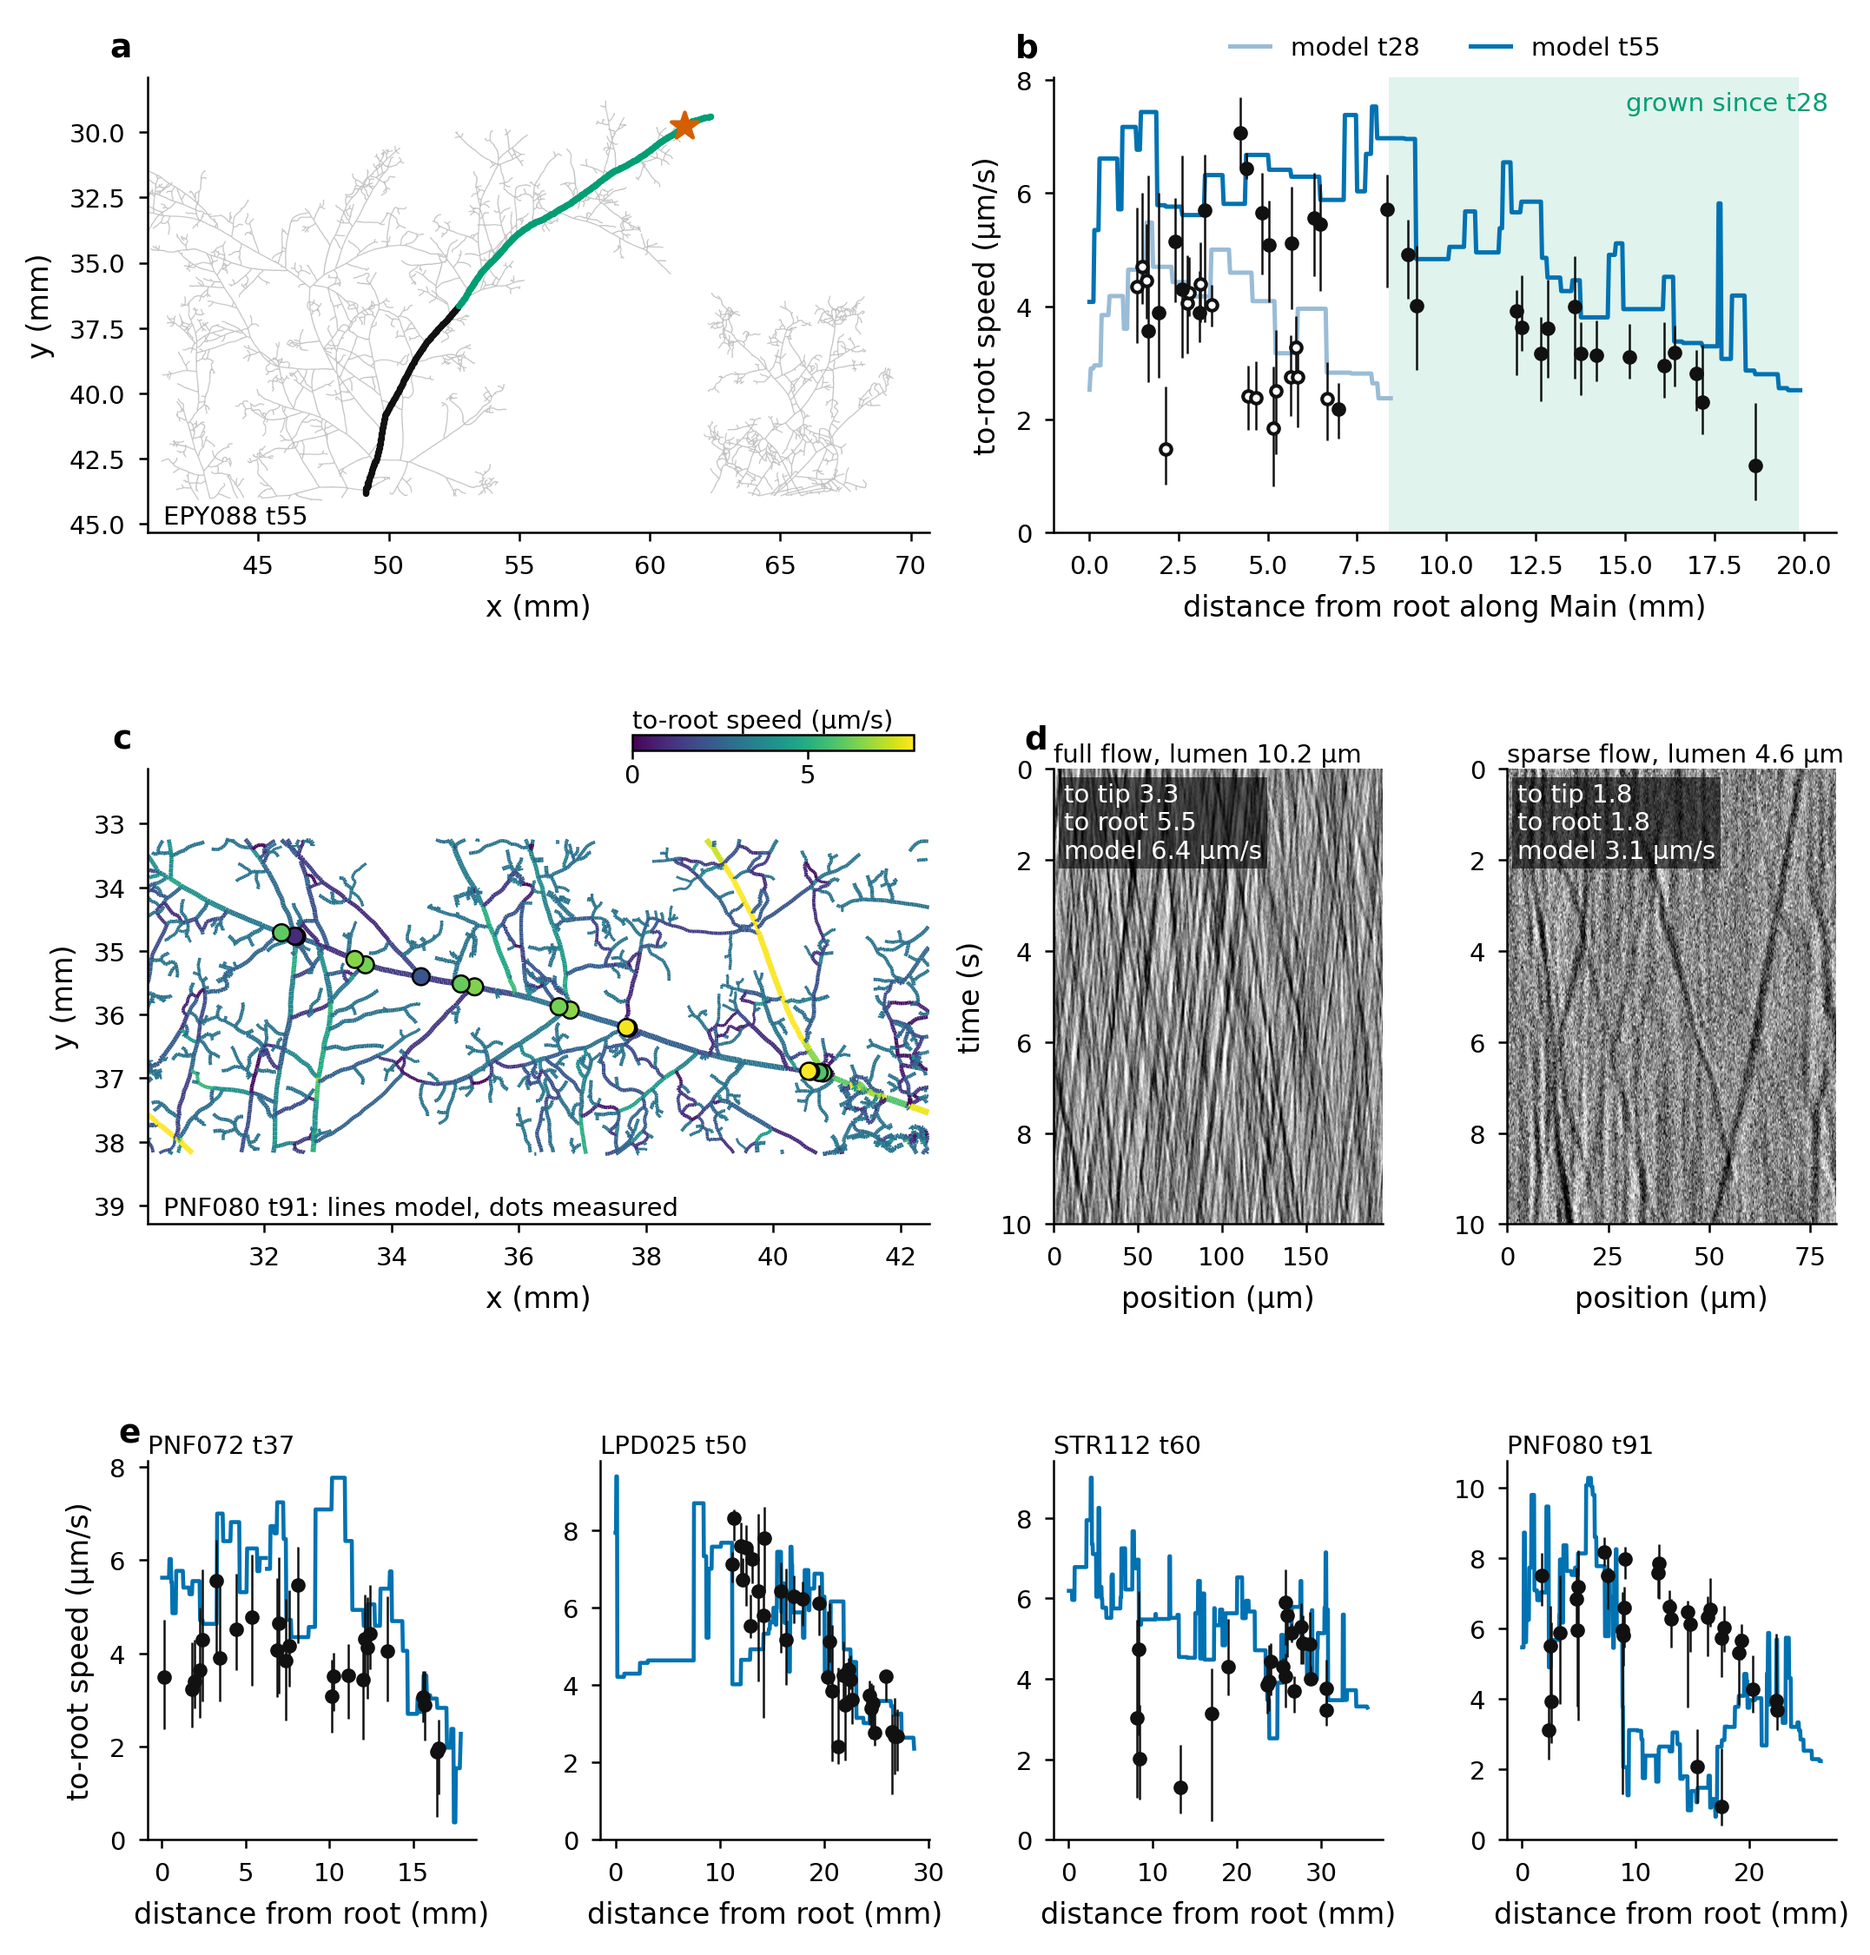
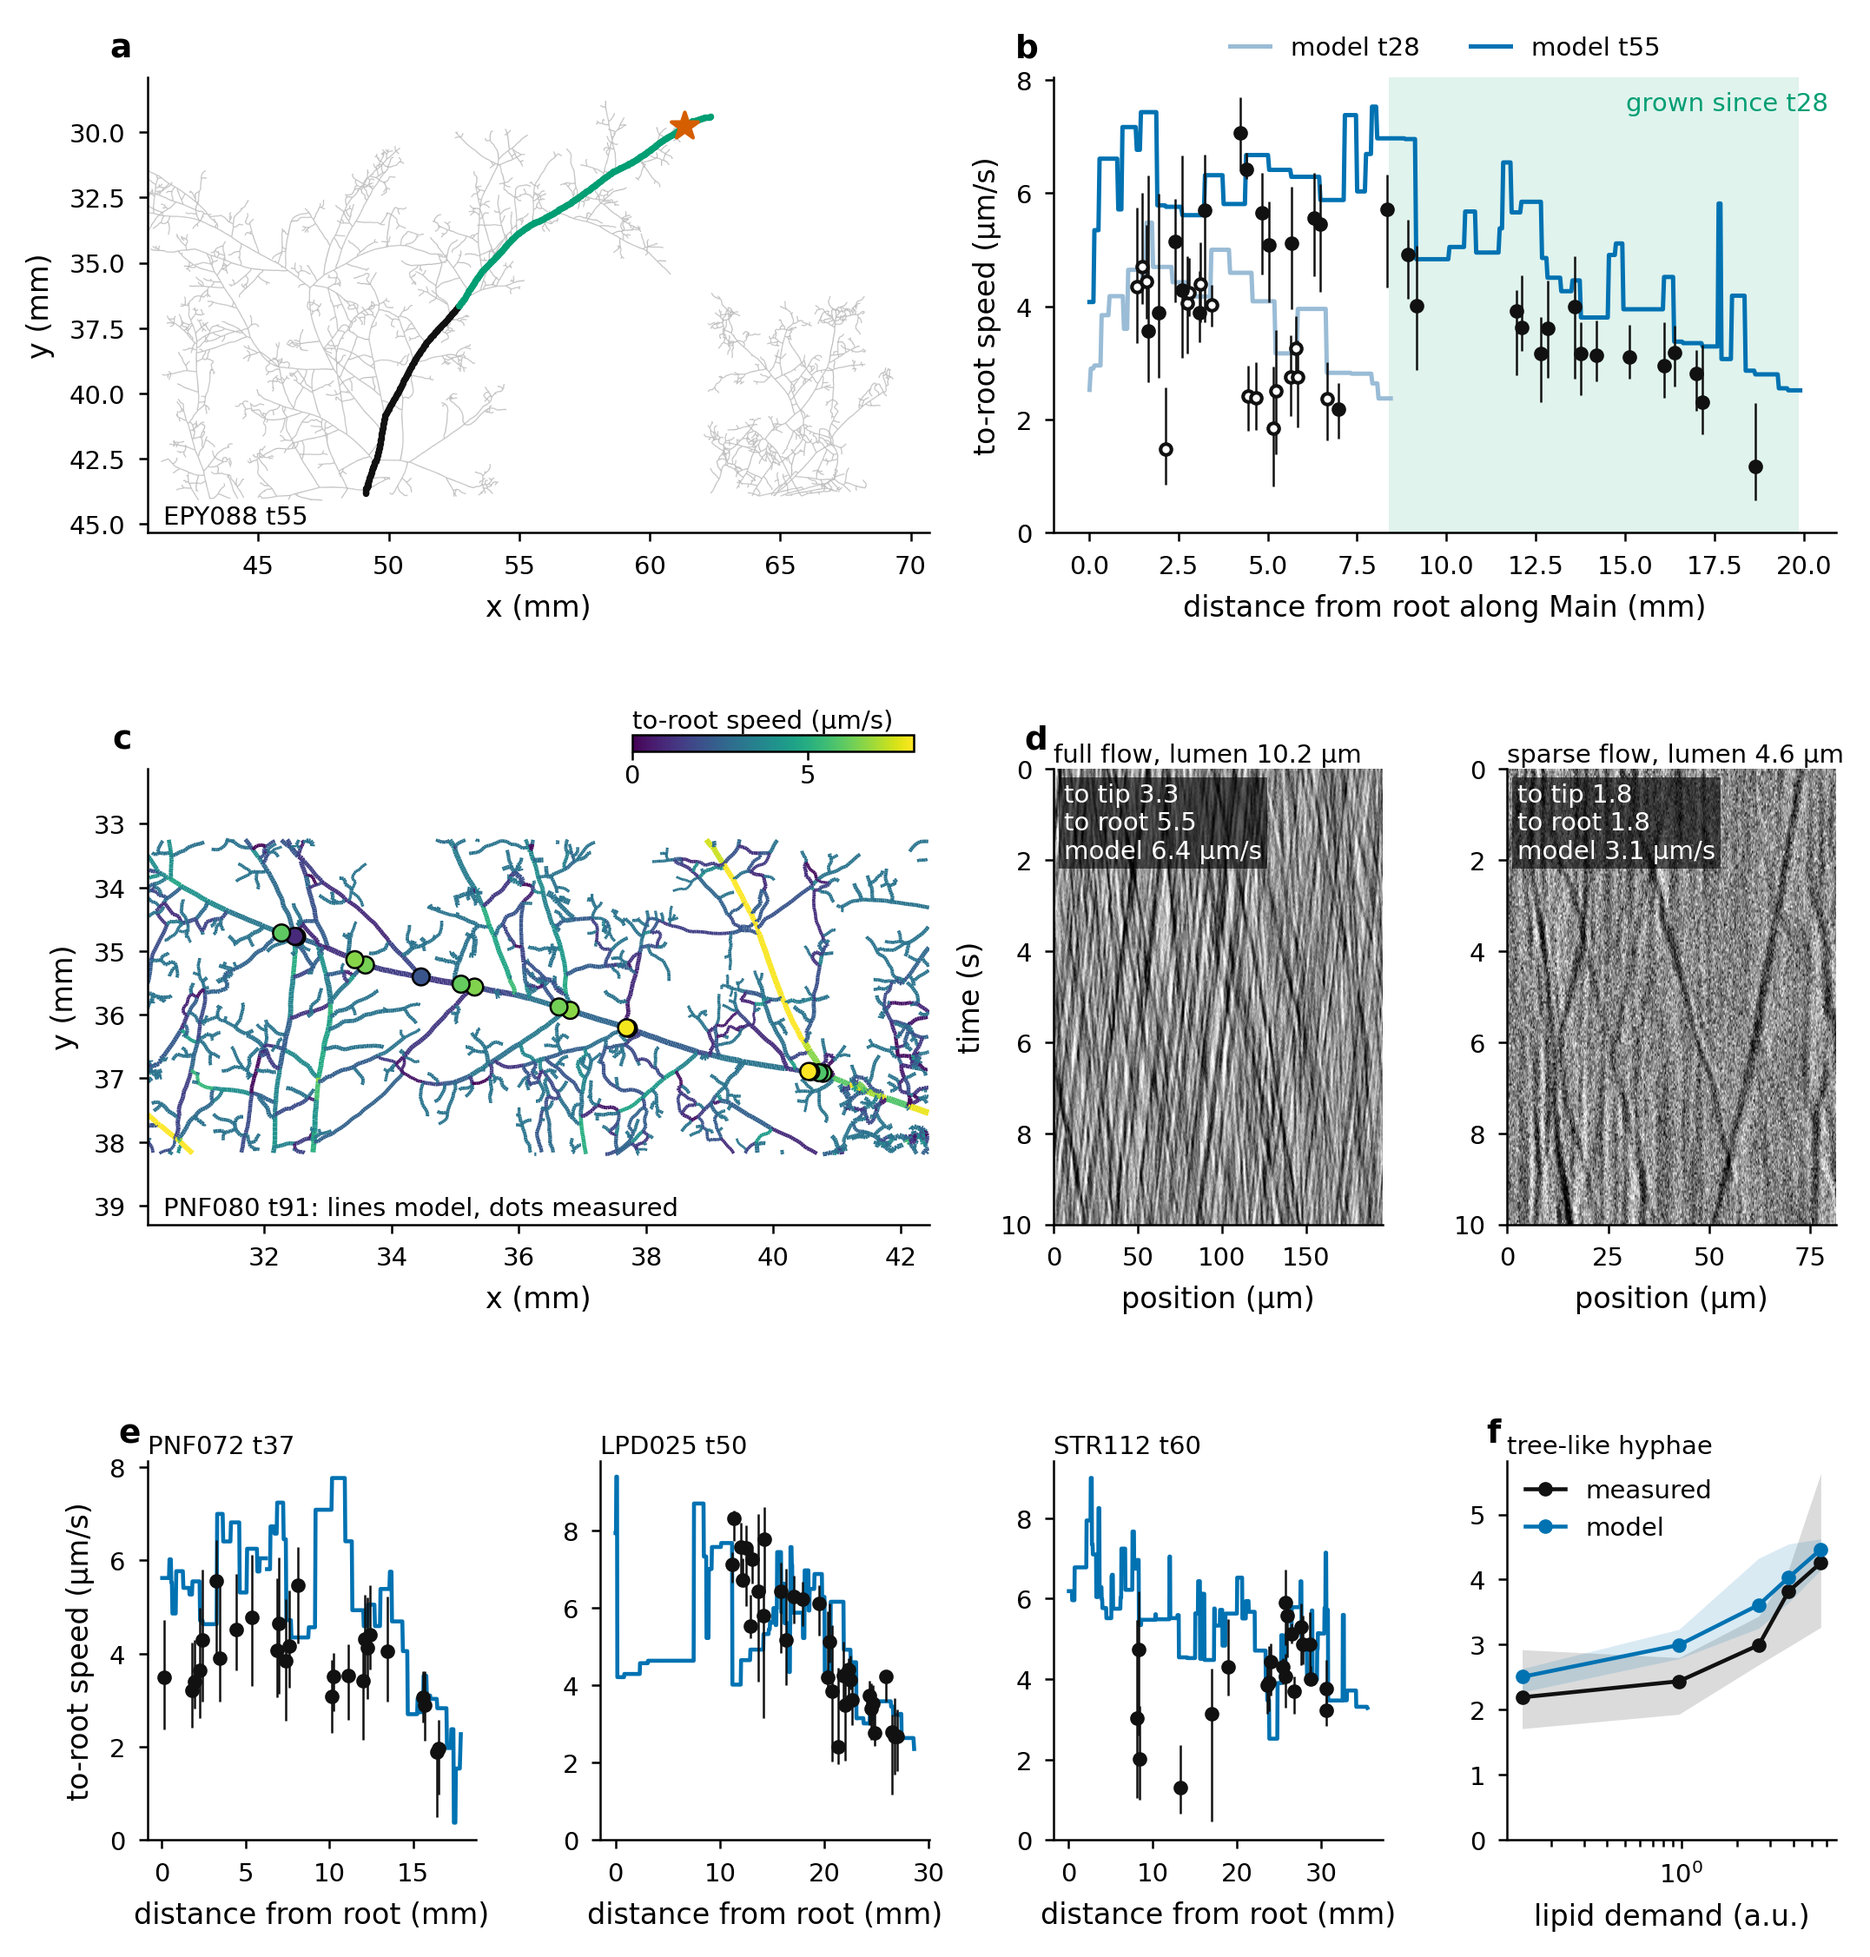
Fig 6: panel f (backflow against demand on tree-like hyphae, measured and model); e without the PNF080 trail; caption

diff --git a/01_Article_MainText.tex b/01_Article_MainText.tex
@@ -370,7 +370,8 @@ On the stretch that existed at t28 the model rises 1.51-fold (median 4.17 to 6.2
 Measured: median 6.3~$\mu$m/s to the root and 3.3~$\mu$m/s to the tip; model: 2.1~$\mu$m/s, because the pressure solve returns only 0.66 (interquartile range 0.47--0.79) of the trail's motor stream through its own core and sends the rest back through neighbouring hyphae.
 \textbf{(d)} Full and sparse flow: bright-field kymographs of two edges of PNF080 at t81, both more than 6~mm from a growing tip (moving signal only, time mean removed; 20 frames per second).
 Left, full flow (lumen 10.2~$\mu$m): to tip 3.3, to root 5.5, model 6.4~$\mu$m/s; right, sparse flow (lumen 4.6~$\mu$m): few, faint streaks at 1.8~$\mu$m/s in both directions, model 3.1~$\mu$m/s (SI, \nameref{subsec:si_flow_regimes}).
-\textbf{(e)} One trail on each of the other plates: PNF072 t37 Middle (26 segments, 92\% within a factor 2), LPD025 t50 Middle (32, 94\%), STR112 t60 LeftMiddle (21, 86\%) and PNF080 t91 LeftMiddle (31, 58\%).}
+\textbf{(e)} One trail on each of the other plates: PNF072 t37 Middle (26 segments, 92\% within a factor 2), LPD025 t50 Middle (32, 94\%) and STR112 t60 LeftMiddle (21, 86\%).
+\textbf{(f)} Tree-like hyphae (edges on no loop that carry lipid demand, 111 edges): to-root speed against the routed lipid demand, medians of the five demand quintiles with 25th--75th percentile, measured (black) and model (blue); the model is within a factor 2 of the measurement on 94\% of these edges.}
     \label{fig:fig6_examples}
 \end{figure}
 % NOTE (15 Oct): Fig 6 was rebuilt on Simon's layout (EPY088 carries the time story in a-b; the other plates are in c, which was d), and Claude drafted its caption. The sources are transport_paper Working_notebooks/manuscript_figures/fig6_examples.py (feat/flow-regime) and the main-model tables (Keras widths). Further numbers follow. The within-trail Spearman rho of model against measured is 0.67 for EPY088 t55 Main and 0.39 for t28 (16 segments, 88 % within a factor of 2); it is 0.19 for PNF072 t37, 0.42 for LPD025 t50, -0.14 for STR112 t60 and 0.02 for PNF080 t91. Over all 29 trails with >= 8 measured segments, the median fold error is 1.37 (largest 2.26), the median within-trail rho is 0.15, and rho is negative on 9; the level holds, and the order along a trail holds only partly. On PNF080 t91 the model drops to ~2-3 um/s at 9-18 mm, where the measured speed stays at 5-8 um/s (the 58 %). LPD025 Middle over three sessions (t25 / t36 / t50) gives 1.80-fold / 1.73-fold in the model and 1.23-fold / 2.54-fold measured on the t25 stretch (7, 8, 10 segments); it was left out as too few. Typst 6D (fold error against loop density) was left out; there the global solve was the worst coupling. It is an SI candidate.
